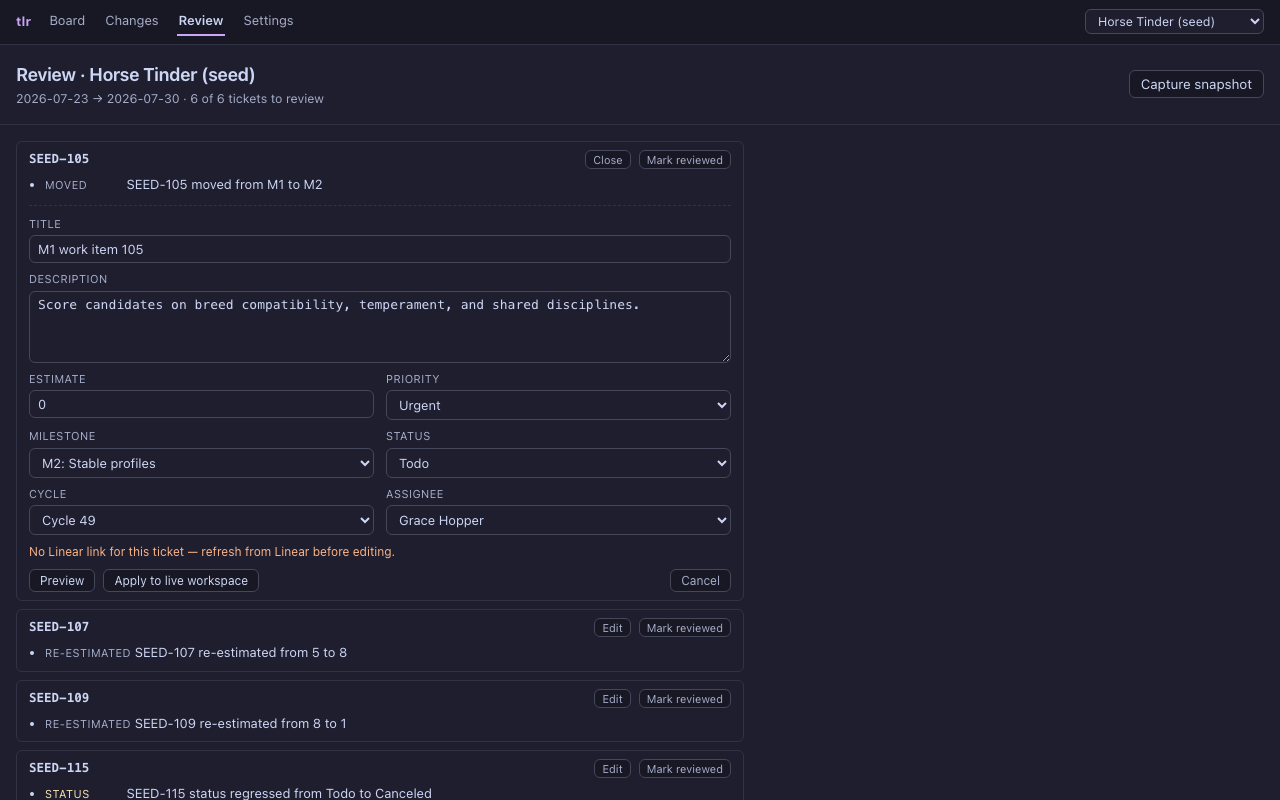
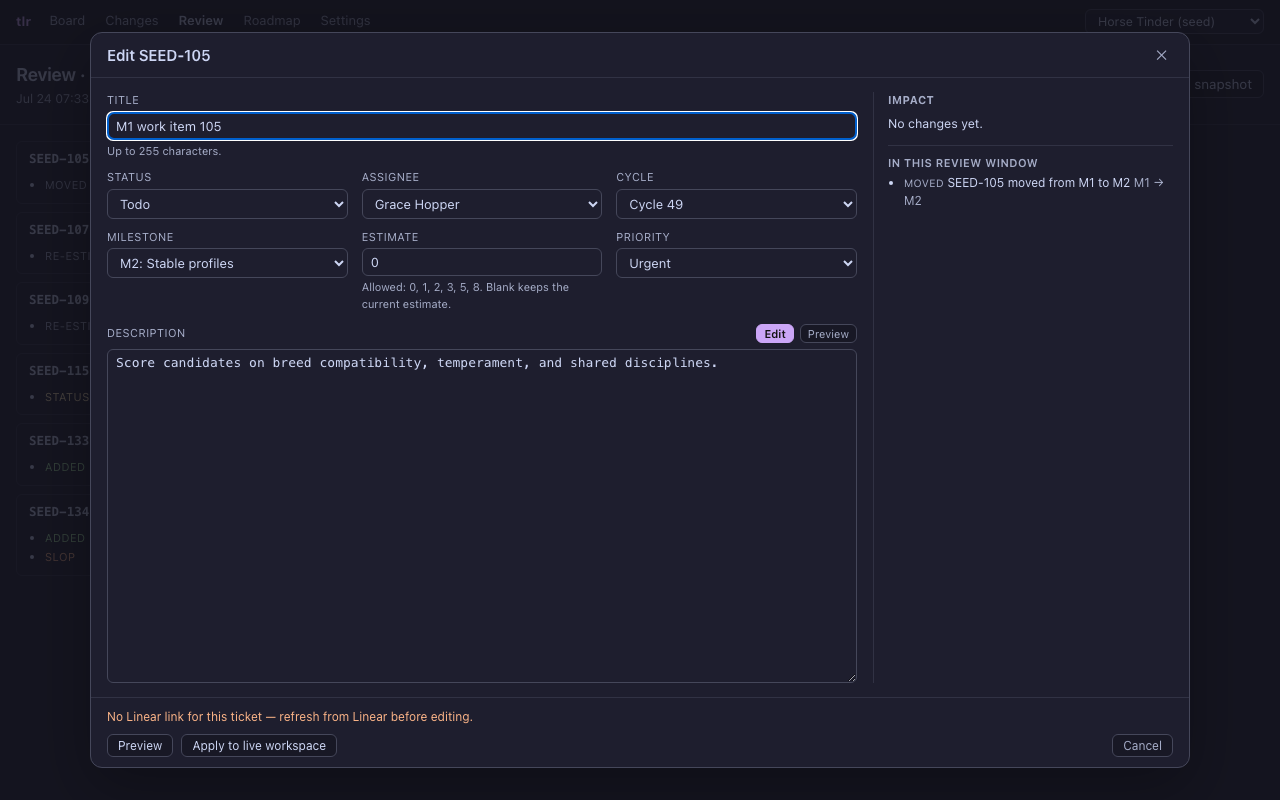
fix: repair four faults found by running the editor against Linear
Verified the whole loop end to end on the demo workspace: an edit from
the Board modal reached Linear as an issueUpdate, resolved the status by
state name, and read back correctly.

- a capacity-source failure discarded a Linear ingest that had already
  succeeded, because /api/refresh wrote the file only after capacity
  returned; capacity is best-effort here, as it already is on the
  scheduled run
- a project with no cycles gave the on-call and free/busy windows
  undefined bounds, which Incident.io answered with a 422
- after applying, Preview and Apply stayed disabled while the fields
  stayed editable, so a second edit had nowhere to go; the applied
  values become the ticket's state and a further edit can be sent
- the board header printed "null → null" for a project with no dates

Screenshots regenerated, and the Roadmap page joins them.

diff --git a/web/lib/editForm.js b/web/lib/editForm.js
@@ -207,7 +207,6 @@ export function openEditModal(
   const noUuid = !issue.linearId
 
   let previewed = false
-  let applied = false
   let dirty = false
   let phase = "open"
   let willApplyCount = 0
@@ -247,10 +246,10 @@ export function openEditModal(
     const { ok, errors } = validateEdit(values, options)
     const changed = changedFields(issue, values, options)
     const ops = opsForChanges(issue.id, changed)
-    dirty = changed.length > 0 && !applied
+    dirty = changed.length > 0
     showErrors(errors)
-    previewBtn.disabled = applied || !ok || changed.length === 0
-    applyBtn.disabled = applied || noUuid || !previewed || !ok || changed.length === 0 || willApplyCount === 0
+    previewBtn.disabled = !ok || changed.length === 0
+    applyBtn.disabled = noUuid || !previewed || !ok || changed.length === 0 || willApplyCount === 0
     drawImpact({
       changed,
       dataFile,
@@ -296,17 +295,20 @@ export function openEditModal(
     guardEl.querySelector('[data-act="keep"]').focus()
   }
 
-  form.addEventListener("input", () => {
+  function reopenEditing() {
     previewed = false
     outEl.hidden = true
-    phase = applied ? "applied" : "editing"
+    phase = "editing"
+    applyBtn.textContent = mode?.demo ? "Apply to demo workspace" : "Apply to live workspace"
+  }
+
+  form.addEventListener("input", () => {
+    reopenEditing()
     autogrow(textarea)
     sync(true)
   })
   form.addEventListener("change", () => {
-    previewed = false
-    outEl.hidden = true
-    phase = applied ? "applied" : "editing"
+    reopenEditing()
     sync()
   })
   form.addEventListener("submit", (e) => e.preventDefault())
@@ -353,7 +355,11 @@ export function openEditModal(
       const allOk = (res.results ?? []).length > 0 && res.results.every((r) => r.ok)
       applyBtn.textContent = allOk ? "Applied" : "Apply failed"
       if (!allOk) return
-      applied = true
+      // The applied values are the ticket's state now, so a further edit is measured against them and
+      // can be previewed and applied again. Latching on `applied` would leave the fields editable with
+      // no way to send them.
+      Object.assign(issue, readValues())
+      previewed = false
       dirty = false
       phase = "applied"
       cancelBtn.textContent = "Close"

diff --git a/scripts/capacity.ts b/scripts/capacity.ts
@@ -97,9 +97,12 @@ async function fetchOncallEntries(token: string, winStart: string, winEnd: strin
   return entries
 }
 
+// A project with no cycles has no window to ask about. Returning nulls keeps the callers from
+// interpolating "undefined" into a query string, which Incident.io answers with a 422.
 function windowFor(cycles: { start: string; end: string }[]) {
-  const starts = cycles.map((c) => c.start).sort()
-  const ends = cycles.map((c) => c.end).sort()
+  const starts = cycles.map((c) => c.start).filter(Boolean).sort()
+  const ends = cycles.map((c) => c.end).filter(Boolean).sort()
+  if (!starts.length || !ends.length) return { winStart: null, winEnd: null }
   return { winStart: starts[0], winEnd: ends[ends.length - 1] }
 }
 
@@ -136,7 +139,8 @@ export async function refreshCapacity(data: CapacityData, opts: RefreshCapacityO
   const wantHistory = source === "all" || source === "history"
   const log: string[] = []
 
-  if (wantIncident) {
+  if (wantIncident && !winStart) log.push("incident.io: no cycles to bound the on-call window; skipping")
+  if (wantIncident && winStart && winEnd) {
     const token = await incidentToken()
     const entries = await fetchOncallEntries(token, winStart, winEnd)
     const oncall = oncallByCycle(entries, cycles, roster)
@@ -156,6 +160,8 @@ export async function refreshCapacity(data: CapacityData, opts: RefreshCapacityO
       const emails = [...new Set(rosterEntries.map((p) => p.email).filter(Boolean))] as string[]
       if (!emails.length) {
         log.push("gcal: no roster emails to query; skipping out-of-office refresh")
+      } else if (!winStart || !winEnd) {
+        log.push("gcal: no cycles to bound the free/busy window; skipping")
       } else {
         const client = await loadClient(CLIENT_PATH)
         const token = await tokenFor(client, opts.reauth)

diff --git a/web/app.js b/web/app.js
@@ -177,10 +177,12 @@ function syncUrl() {
 
 // header + controls
 document.getElementById("title").textContent = data.project.name
+// A project with neither a start nor a target date drops the range rather than printing "null → null".
 function renderMeta() {
-  document.getElementById("meta").innerHTML =
-    `${data.issues.length} issues · ${data.project.start} → ${data.project.target} · ` +
-    `<a href="${data.project.url}" target="_blank">Linear ↗</a>`
+  const { start, target, url } = data.project
+  const range = start || target ? `${start ?? "—"} → ${target ?? "—"} · ` : ""
+  document.getElementById("meta").innerHTML = `${data.issues.length} issues · ${range}` +
+    `<a href="${url}" target="_blank">Linear ↗</a>`
 }
 renderMeta()
 

diff --git a/scripts/serve.ts b/scripts/serve.ts
@@ -223,7 +223,12 @@ app.post("/api/refresh", async (c) => {
       log.push("issues: no project name to refresh — pass { project } or set data.project.name first")
     }
 
-    log.push(...(await refreshCapacity(data)))
+    // Capacity is best-effort, the same as the scheduled run treats it. An Incident.io or Calendar
+    // outage must not discard a Linear ingest that already succeeded.
+    await refreshCapacity(data).then(
+      (lines) => log.push(...lines),
+      (err) => log.push(`capacity: ${err instanceof Error ? err.message : String(err)}`),
+    )
 
     await writeJsonAtomic(path, data)
 

diff --git a/tests/e2e/screenshots.spec.ts b/tests/e2e/screenshots.spec.ts
@@ -13,6 +13,7 @@ const pages: [path: string, name: string, ready: string][] = [
   [`/${SEED}`, "board", "#grid tr"],
   [`/changes${SEED}`, "changes", ".rsec"],
   [`/review${SEED}`, "review", ".rgroup"],
+  [`/roadmap${SEED}`, "roadmap", ".rm-card"],
   [`/settings${SEED}`, "settings", ".cfg-nav-item"],
 ]
 

diff --git a/README.md b/README.md
@@ -44,21 +44,29 @@ flags. Milestone headers carry a slip marker and move the detail to the hover.
 
 ![The planning board](docs/images/board.png)
 
-Changes reads the two most recent snapshots and writes the weekly update.
+Changes steps through snapshot history by capture or by day and writes the weekly update.
 
 ![The changes page](docs/images/changes.png)
 
-Review groups every change to a ticket into one unit, lets you mark it reviewed, and edits the ticket in
-place (title, description, estimate, priority, milestone, status, cycle, assignee) with a preview before
-it writes to Linear.
+Review runs from your last review to the newest capture, groups every change to a ticket into one unit,
+and lets you mark it reviewed. Editing a ticket opens a modal (title, description, estimate, priority,
+milestone, status, cycle, assignee) whose right column shows what the edit costs: the owner's load in
+the target cycle before and after, any milestone whose forecast landing moves, blockers and blocked
+work, and a slop scan of the rewritten description. Preview is a dry run, so nothing reaches Linear
+until you confirm.
 
 ![The review page](docs/images/review.png)
+
+Roadmap puts every ticket on one pannable plane: time across, dependency depth down, with edges between
+blockers and a warning where one runs backward.
+
+![The roadmap page](docs/images/roadmap.png)
 
 Writes run in one of two modes, chosen at launch. Live mode (the default) uses your real workspace key.
 Demo mode (`TLR_DEMO=1`) points every write at a free/test workspace and shows a banner, so you can try
 edits without touching real tickets. See [SETUP.md](SETUP.md) for storing each key in the keychain.
 
-Settings holds appearance, capacity, roster, calendar overrides, and integrations on its own page.
+Settings holds appearance, capacity, roster, integrations, and credentials on its own page.
 
 ![The settings page](docs/images/settings.png)
 
